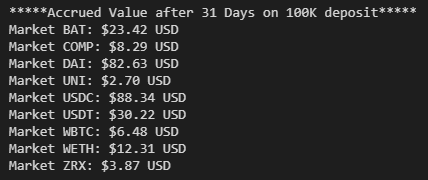
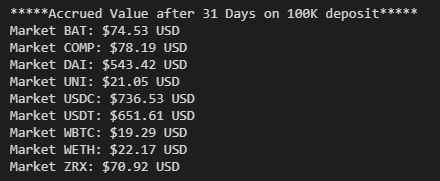
adding outputs

diff --git a/utils.py b/utils.py
@@ -3,10 +3,11 @@ import json
 from urllib import request as rq
 import pandas as pd
 import numpy as np
-from matplotlib import pyplot as plt
 
 txs = 'https://api.flipsidecrypto.com/api/v2/queries/1d4aa346-e60f-48e0-aa06-43af88bcbce9/data/latest'
 interests = 'https://api.flipsidecrypto.com/api/v2/queries/0f0ebfaa-31ed-486f-9866-19de92de1903/data/latest'
+
+comp_users = 300000
 
 #input url API
 #output dataframe
@@ -40,7 +41,7 @@ def averageCOMP(comp:pd.Series,blocks:pd.Series):
             del blocks[0]
     blocks.reset_index(drop=True,inplace=True)
     for index, val in blocks.iteritems():
-        x = comp[index]/val
+        x = comp[index]*val/comp_users #comp * blocks / users
         if x > 100000000:
             x = 0
         else:
@@ -58,24 +59,23 @@ def cOMPS(list_interests,list_txs):
         i+=1
     return avgcomp
 
+# def plotone(title:str,series:pd.Series):
+#     plt.plot(np.arange(0,len(series),1),series)
+#     plt.ylabel('Value (USD)')
+#     plt.legend()
+#     plt.title(title,pad=20)
 
-def plotone(title:str,series:pd.Series):
-    plt.plot(np.arange(0,len(series),1),series)
-    plt.ylabel('Value (USD)')
-    plt.legend()
-    plt.title(title,pad=20)
-
-colours = ['lightseagreen','paleturquoise','teal','darkslategray','deepskyblue','lightslategrey']
-def plotter(title:str,datasets:list):
-    fig,ax = plt.subplots()
-    for ind,dataset in enumerate(datasets):
-        plt.plot(np.array(dataset.index),dataset['AVG(FEE_USD)'],color=colours[ind],label=dataset['FUNCTION_NAME'][1])
-        print('Average Fee for '+dataset['FUNCTION_NAME'][1]+':${:.2f} USD'.format(dataset['AVG(FEE_USD)'].mean()))
-    ax.set_xticks([])
-    ax.set_xlabel('Last 90 Days')
-    ax.set_ylabel('Average Fee (USD)')
-    plt.legend()
-    plt.title(title,pad=20)
+# colours = ['lightseagreen','paleturquoise','teal','darkslategray','deepskyblue','lightslategrey']
+# def plotter(title:str,datasets:list):
+#     fig,ax = plt.subplots()
+#     for ind,dataset in enumerate(datasets):
+#         plt.plot(np.array(dataset.index),dataset['AVG(FEE_USD)'],color=colours[ind],label=dataset['FUNCTION_NAME'][1])
+#         print('Average Fee for '+dataset['FUNCTION_NAME'][1]+':${:.2f} USD'.format(dataset['AVG(FEE_USD)'].mean()))
+#     ax.set_xticks([])
+#     ax.set_xlabel('Last 90 Days')
+#     ax.set_ylabel('Average Fee (USD)')
+#     plt.legend()
+#     plt.title(title,pad=20)
 
 # interests = loaddata(interests)
 # txs = loaddata(txs)

diff --git a/calculator.py b/calculator.py
@@ -1,0 +1,54 @@
+#calculator for loan maturity
+
+#imports
+from datetime import datetime
+import utils
+
+#####
+interests = utils.loaddata(utils.interests)
+txs = utils.loaddata(utils.txs)
+list_txs = utils.group(txs)
+list_interests = utils.group(interests)
+del interests,txs
+
+list_txs = utils.reindex(list_txs)
+list_interests = utils.reindex(list_interests)
+list_txs[7] = list_txs[7].append(list_txs[8])
+del list_txs[8]
+
+list_txs.insert(6,list_txs[3])
+del list_txs[3]
+
+avgcomps = utils.cOMPS(list_interests,list_txs)
+
+symbols = []
+for i in list_interests:
+    symbols.append(i['SYMBOL'][0])
+    # print(i['SYMBOL'][0])
+    comp_interest = []
+for i in avgcomps:
+    # print('31 Day Average COMP for different markets {:.4f}'.format(utils.np.mean(i)))
+    comp_interest.append(utils.np.mean(i))
+apys = []
+for i in list_interests:
+    # print('31 Day Average APY for different markets {:.4f}'.format(i['APY'].mean()))
+    apys.append(i['APY'].mean())
+####
+
+def loop():
+    #get inputs
+    currentdate = datetime.now()
+    print('\n*********COMPOUND ROI Calculator*********'.format(currentdate.strftime('%b %d, %Y')))
+    collateral = float(input('Enter your initial collateral amount (in USD):'))
+
+    print('=========================')
+    for ind,val in enumerate(symbols):
+        print('[{}]:{}'.format(ind,val))
+    market = int(input('Choose your market by entering the associated number:'))
+    time = int(input('Enter the amount of days you would like to leave your supply:'))
+
+    x = collateral * apys[market] * time/365 + time * comp_interest[market]
+    print('You can expect to see an ROI of {:.2f}'.format(x/collateral*100))
+
+while(1):
+    loop()
